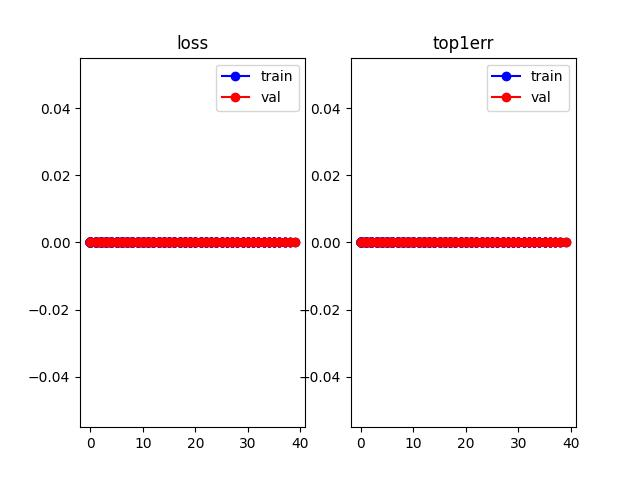
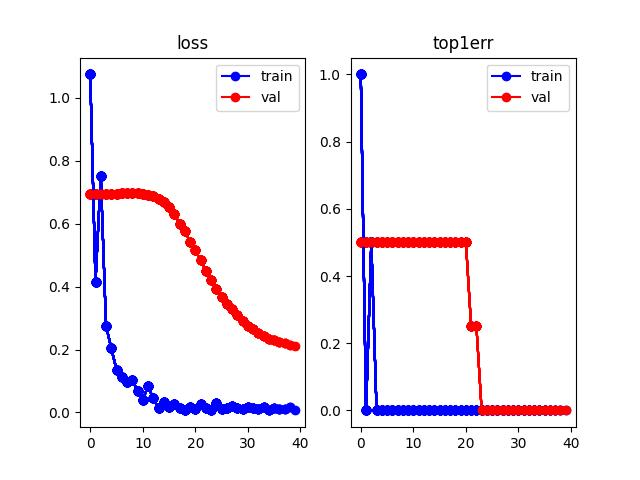
model is changed

diff --git a/deep_sort/deep/train.py b/deep_sort/deep/train.py
@@ -32,13 +32,14 @@ root = args.data_dir
 train_dir = os.path.join(root,"train")
 test_dir = os.path.join(root,"test")
 transform_train = torchvision.transforms.Compose([
-    torchvision.transforms.RandomCrop((128,64),padding=4),
+    torchvision.transforms.Resize((128,128)),
+    torchvision.transforms.RandomCrop((128,128),padding=4),
     torchvision.transforms.RandomHorizontalFlip(),
     torchvision.transforms.ToTensor(),
     torchvision.transforms.Normalize([0.485, 0.456, 0.406], [0.229, 0.224, 0.225])
 ])
 transform_test = torchvision.transforms.Compose([
-    torchvision.transforms.Resize((128,64)),
+    torchvision.transforms.Resize((128,128)),
     torchvision.transforms.ToTensor(),
     torchvision.transforms.Normalize([0.485, 0.456, 0.406], [0.229, 0.224, 0.225])
 ])

diff --git a/deep_sort/deep/model.py b/deep_sort/deep/model.py
@@ -67,7 +67,8 @@ class Net(nn.Module):
         # 128 16 8
         self.layer4 = make_layers(256,512,2,True)
         # 256 8 4
-        self.avgpool = nn.AvgPool2d((8,4),1)
+        # self.avgpool = nn.AvgPool2d((8,4),1)
+        self.adaptiveavgpool = nn.AdaptiveAvgPool2d(1)
         # 256 1 1 
         self.reid = reid
         self.classifier = nn.Sequential(
@@ -84,7 +85,8 @@ class Net(nn.Module):
         x = self.layer2(x)
         x = self.layer3(x)
         x = self.layer4(x)
-        x = self.avgpool(x)
+        # x = self.avgpool(x)
+        x = self.adaptiveavgpool(x)
         x = x.view(x.size(0),-1)
         # B x 128
         if self.reid:
